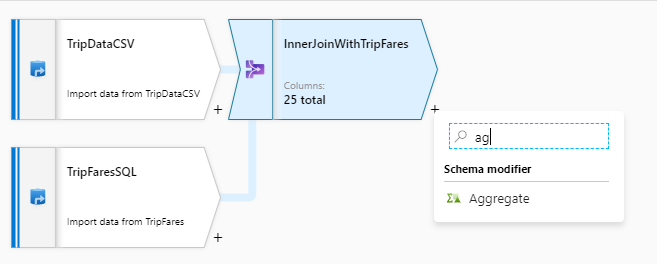
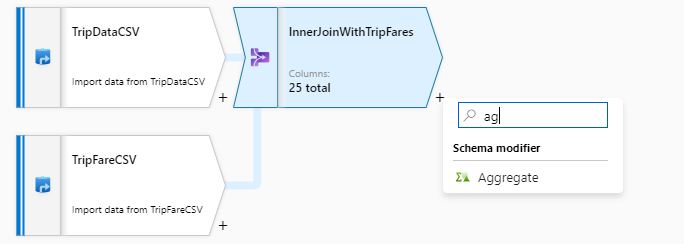
updating lab

diff --git a/Data integration using Azure Data Factory and Azure Data Share.md b/Data integration using Azure Data Factory and Azure Data Share.md
@@ -373,7 +373,9 @@ The data flow created in this step inner joins the 'TripDataCSV' dataset created
 1. In the select format pane, select **DelimitedText** as you are reading from a csv file. Click continue.
 
     ![Portal](./assets/images/dataflow13.png)
-1. Name your dataset 'TripFaresCSV'. Select 'ADLSGen2' as your linked service. Point this at the file shared in the Data Share lab. It should be called `TripFares.csv` in container `taxi-data`. Set **First row as header** to true as the input data has headers. Import the schema **From connection/store**. Click OK when finished.
+1. Name your dataset 'TripFaresCSV'. Select 'ADLSGen2' as your linked service. Point this at the file shared in the Data Share lab. It should be called `TripFares.csv` in container `taxidata`. Set **First row as header** to true as the input data has headers. Import the schema **From connection/store**. Click OK when finished.
+
+    *If you didn't complete the Data Share portion of the lab, the file will be located in the container 'sample-data'*
 
     ![Portal](./assets/images/dataflow11.png)
 1. To verify your source is configured correctly, fetch a data preview in the **Data Preview** tab.
